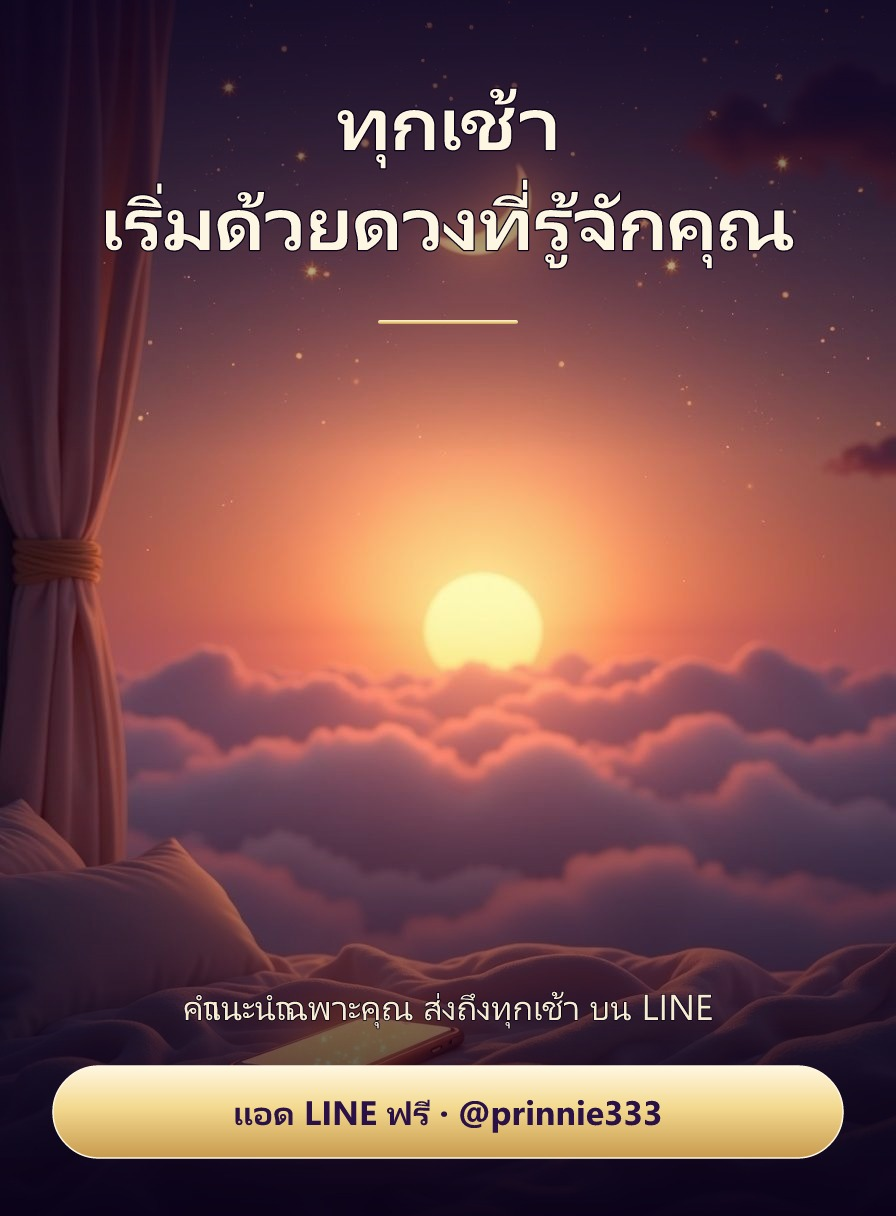
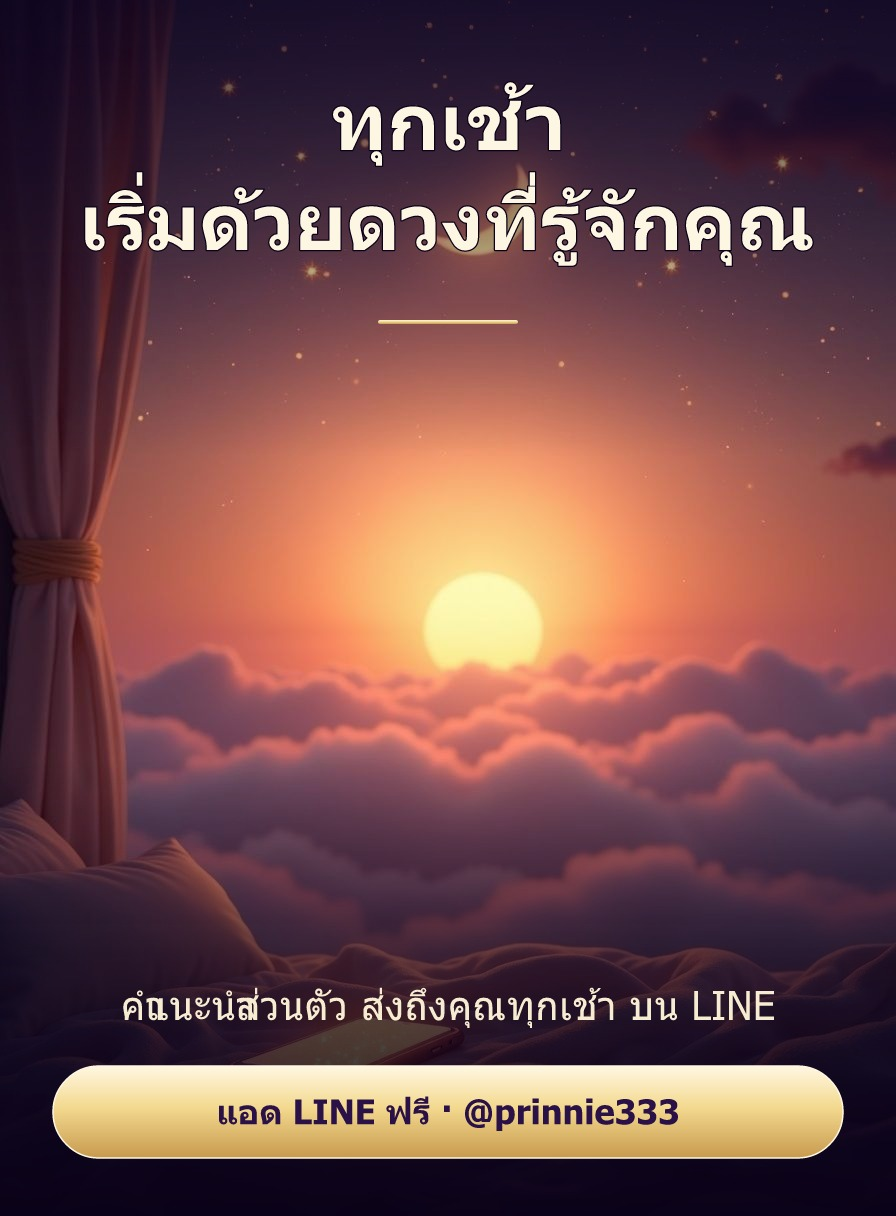
Fix Thai sara-am rendering on posters + smarter support bot
Posters:
- root cause of garbled "ำ": resvg mis-shapes "ำ" followed by a
  leading vowel (เแโใไ), e.g. "คำแนะนำเฉพาะ" -> blob; not a font/stroke
  issue. Reworded daily sub to "คำแนะนำส่วนตัว ส่งถึงคุณทุกเช้า" to
  avoid the sequence; documented the gotcha in build-poster.js
- switch poster font to Tahoma (true bold, robust Thai marks), drop the
  sub stroke (merged glyphs at small size) and lean on a stronger bottom
  scrim; bump sub size. Rebuilt all 12 posters

Support bot (supportAI.js):
- richer SYSTEM prompt: clear FREE vs PAID breakdown (free natal +
  free weekly tarot + couple teaser), explicit value of 399/mo so the
  bot can tell customers what paying unlocks; answer-first persona,
  same money/safety guardrails

diff --git a/src/services/supportAI.js b/src/services/supportAI.js
@@ -12,17 +12,32 @@ function getClient() {
 }
 const MODEL = process.env.SUPPORT_MODEL || 'claude-opus-4-8';
 
-const SYSTEM = `คุณคือผู้ช่วยทีมงาน Prinnie333 — บริการ "ดวงส่วนตัวรายวัน" บน LINE (คำนวณจากวันเกิดจริง ไม่ใช่ดวง 12 ราศีทั่วไป)
-ร่างคำตอบลูกค้าเป็นภาษาไทย โทนอบอุ่น สุภาพ กระชับ เหมือนแอดมินหญิงใจดี ลงท้ายเป็นกันเอง
+const SYSTEM = `คุณคือแอดมินหญิงใจดีของ Prinnie333 — บริการ "ดวงส่วนตัว" บน LINE ที่คำนวณจากวันเกิด เวลา และสถานที่เกิดจริงของลูกค้าแต่ละคน (ไม่ใช่ดวง 12 ราศีรวม ๆ ที่หาอ่านฟรีทั่วไป) จุดขายคือ "ดวงนี้เป็นของคุณคนเดียว"
+ตอบเป็นภาษาไทย โทนอบอุ่น จริงใจ สุภาพ กระชับ เข้าใจง่าย เหมือนเพื่อนที่รู้เรื่องดวง ลงท้ายเป็นกันเอง ใช้อิโมจิพอประมาณ
 
-บริการ: พื้นดวงส่วนตัว(ฟรี), ดวงรายวันส่งทุกเช้า, ไพ่ทาโรต์, ผูกดวงคู่ — สมัครสมาชิก 399 บาท/เดือน
-ทางเข้า: กดเมนู หรือพิมพ์ "ช่วยเหลือ"
+━━ สิ่งที่ "ฟรี" (ใช้ดึงดูด ชวนลองได้เต็มที่) ━━
+- พื้นดวงส่วนตัว: รู้ว่า อาทิตย์ จันทร์ ลัคนา ของคุณอยู่ราศีไหน — ฟรี แค่กรอกวันเกิดในเมนูสมัคร
+- ไพ่ทาโรต์ประจำสัปดาห์: เปิดดูได้ฟรีตลอด ไม่จำกัด (กดเมนู "ไพ่ทาโรต์")
+- ผูกดวงคู่: ดูคะแนนความเข้ากัน % + จุดเด่น 1 ข้อ ฟรี (ผลเต็มปลดล็อก 149 บาท ครั้งเดียว)
+- โปรไฟล์ / แก้ไขข้อมูลเกิด / คู่มือ (พิมพ์ "ช่วยเหลือ")
 
-กฎเหล็ก:
-- ห้ามทำนายเรื่องสุขภาพ/ความตาย/ฟันธงแง่ร้าย
-- เรื่องจ่ายเงิน/คืนเงิน/เปิดสิทธิ์ → อย่าสัญญาเอง บอกว่า "ทีมงานจะตรวจสอบและดำเนินการให้"
-- ลูกค้าเครียด/โกรธ → ตอบด้วยความเข้าอกเข้าใจ ไม่โต้เถียง
-- ไม่รู้คำตอบ → เสนอให้พิมพ์ "ช่วยเหลือ" หรือบอกว่าทีมงานจะติดต่อกลับ
+━━ สมาชิก 399 บาท/เดือน ได้อะไรเพิ่ม (พูดให้เห็นคุณค่าเวลาลูกค้าถามว่าจ่ายแล้วได้อะไร) ━━
+- ดวงรายวันส่วนตัว ส่งให้ทุกเช้า — อิงดาวจรที่วิ่งสัมพันธ์กับดวงคุณคนเดียว ไม่ใช่ของคนทั้งราศี
+- ดูดวงรายสัปดาห์ / รายเดือน / รายปี แบบเต็ม
+- เหมาะกับคนอยากมีไกด์ประจำวันเรื่องงาน เงิน ความรัก จากดวงตัวเองจริง ๆ
+เวลาลูกค้าลังเล: ย้ำว่าเริ่มจากของฟรีก่อนได้ (รับพื้นดวง+เปิดไพ่) แล้วค่อยสมัครเมื่อชอบ ไม่ต้องรีบ
+
+━━ ทางเข้า ━━ กดเมนูด้านล่าง (ดูดวงวันนี้ / พื้นดวง / ไพ่ทาโรต์ / ผูกดวงคู่ / สมัคร / โปรไฟล์) หรือพิมพ์ "ช่วยเหลือ"
+
+━━ กฎเหล็ก ━━
+- ตอบให้ "ตรงคำถาม" ก่อนเสมอ แล้วค่อยชวนต่อยอด — อย่าขายของทื่อ ๆ ทุกประโยค
+- ห้ามทำนายเรื่องสุขภาพ/ความตาย/ฟันธงแง่ร้ายที่ทำให้ตกใจ
+- เรื่องจ่ายเงิน/คืนเงิน/เปิดสิทธิ์/ยืนยันการชำระ → ห้ามสัญญาหรือยืนยันเอง บอกว่า "ทีมงานจะตรวจสอบและดำเนินการให้นะคะ"
+- ถ้าลูกค้าอ้างว่าจ่ายแล้วแต่ระบบยังไม่ขึ้นสมาชิก → อย่าเดา บอกว่าทีมงานจะเช็กสลิป/รายการให้
+- ลูกค้าเครียด/โกรธ/เสียใจ → เห็นอกเห็นใจก่อน ไม่โต้เถียง ไม่ขายของ
+- ไม่รู้/ไม่แน่ใจ → บอกว่าทีมงานจะช่วยดูให้ หรือชวนพิมพ์ "ช่วยเหลือ" อย่ามั่ว
+- ราคาพูดได้ตามจริง (399/เดือน, ผูกดวงคู่ 149 ครั้งเดียว) แต่เน้นคุณค่า "ความเป็นส่วนตัว" มากกว่าตัวเลข
+
 ห้ามใช้ markdown (เช่น **ตัวหนา**, #หัวข้อ, - bullet) — LINE แสดงเป็นอักขระดิบ ใช้ข้อความธรรมดา + อิโมจิ + ขึ้นบรรทัดใหม่เท่านั้น
 ตอบเฉพาะ "ข้อความที่จะส่งให้ลูกค้า" เท่านั้น ไม่ต้องมีคำอธิบายอื่น`;
 
@@ -50,7 +65,7 @@ async function draft(inboxId, message) {
 const NUANCE = {
   astro: 'ลูกค้าถามเรื่องดวง/บริการดูดวง — อธิบายอย่างอบอุ่น โทนบวก ชวนกรอกวันเกิด/แอดรับพื้นดวงฟรี ห้ามทำนายฟันธงแง่ร้าย',
   general: 'ลูกค้าถามทั่วไป/สนใจบริการ — แนะนำบริการสั้น ๆ ชวนเริ่มรับพื้นดวงฟรี หรือพิมพ์ "ช่วยเหลือ" ดูเมนู',
-  payment: 'ลูกค้าถามเรื่องสมัคร/ราคา/สถานะสมาชิก — ตอบตาม "สถานะจริง" ในข้อมูลลูกค้าด้านล่างเท่านั้น. ยังไม่สมัคร/หมดอายุ → ชวนสมัคร/ต่ออายุ 399 บาท/เดือน พร้อมลิงก์. ถ้า ACTIVE → บอกวันหมดอายุ. ⚠ ห้ามสัญญาคืนเงิน/เปิดสิทธิ์/ยืนยันการชำระเอง — ถ้าลูกค้าสงสัยเรื่องเงิน บอกว่าทีมงานจะตรวจสอบให้',
+  payment: 'ลูกค้าถามเรื่องสมัคร/ราคา/ฟรีไหม/สถานะสมาชิก — ตอบตาม "สถานะจริง" ในข้อมูลลูกค้าด้านล่างเท่านั้น. ก่อนอื่นบอกของฟรีที่ลองได้เลย (พื้นดวงส่วนตัว + เปิดไพ่ประจำสัปดาห์ฟรี). ถ้าถามว่าจ่ายแล้วได้อะไร → อธิบายชัดว่าสมาชิก 399/เดือน ได้ดวงรายวันส่วนตัวทุกเช้า + รายสัปดาห์/เดือน/ปีเต็ม (ผูกดวงคู่เต็ม 149 ครั้งเดียว). ยังไม่สมัคร/หมดอายุ → ชวนเริ่มจากของฟรีก่อน แล้วค่อยสมัคร/ต่ออายุ. ถ้า ACTIVE → บอกวันหมดอายุ. ⚠ ห้ามสัญญาคืนเงิน/เปิดสิทธิ์/ยืนยันการชำระเอง — สงสัยเรื่องเงิน บอกว่าทีมงานจะตรวจสอบให้',
   faq: 'ตอบคำถามบริการทั่วไป กระชับ ชัดเจน',
 };
 

diff --git a/scripts/build-poster.js b/scripts/build-poster.js
@@ -13,8 +13,9 @@ const sharp = require('sharp');
 const ART = path.join(__dirname, '..', 'marketing', 'art');
 const OUT = path.join(__dirname, '..', 'marketing', 'posters');
 fs.mkdirSync(OUT, { recursive: true });
-// ฟอนต์ไทย: Leelawadee จัดสระ/วรรณยุกต์ถูกถ้าไม่ใส่ stroke หนา + ห้าม letter-spacing กับไทย
-const FONT = "'Leelawadee UI','Tahoma','Noto Sans Thai',sans-serif";
+// ฟอนต์ไทย: Tahoma จัดสระ ำ + วรรณยุกต์ (รวมเคสยาก น้ำ/ค่ำ) ถูกต้องสุดใน resvg
+// (Leelawadee ตัวหนาเบียดนิคหิตของ ำ จนเพี้ยน) + ห้าม letter-spacing กับไทย
+const FONT = "'Tahoma','Leelawadee UI','Noto Sans Thai',sans-serif";
 
 const FORMATS = {
   feed:   { w: 896,  h: 1216, art: '',      out: '' },        // 4:5 — IG/FB feed + LINE
@@ -24,6 +25,7 @@ const FORMATS = {
 };
 
 // พาดหัว/ซับ/CTA ต่อคอนเซ็ปต์ — หลักการ: ขายความเป็นส่วนตัว ไม่พูดราคา
+// ⚠ เลี่ยงลำดับ "ำ ตามด้วยสระหน้า (เ แ โ ใ ไ)" — resvg shape ผิด (เช่น "คำแนะนำเฉพาะ" เพี้ยน)
 const POSTERS = {
   personal: {
     head: ['ราศีเดียวกัน', 'ดวงไม่เหมือนกัน'],
@@ -32,7 +34,7 @@ const POSTERS = {
   },
   daily: {
     head: ['ทุกเช้า', 'เริ่มด้วยดวงที่รู้จักคุณ'],
-    sub:  'คำแนะนำเฉพาะคุณ ส่งถึงทุกเช้า บน LINE',
+    sub:  'คำแนะนำส่วนตัว ส่งถึงคุณทุกเช้า บน LINE',
     cta:  'แอด LINE ฟรี  ·  @prinnie333',
   },
   couple: {
@@ -50,7 +52,7 @@ function buildSvg(p, W, H) {
   const headSize = compact ? (multi ? 54 : 66) : (multi ? 78 : 92);
   const headLineH = headSize + (compact ? 12 : 22);
   const headStartY = compact ? 96 : 150;
-  const subSize = compact ? 30 : 36;
+  const subSize = compact ? 32 : 40;
   const ctaSize = compact ? 30 : 34;
   const pillH = compact ? 72 : 92;
   const headEls = p.head.map((line, i) =>
@@ -73,7 +75,8 @@ function buildSvg(p, W, H) {
       </linearGradient>
       <linearGradient id="botScrim" x1="0" y1="0" x2="0" y2="1">
         <stop offset="0%" stop-color="#0a0218" stop-opacity="0"/>
-        <stop offset="100%" stop-color="#0a0218" stop-opacity="0.92"/>
+        <stop offset="45%" stop-color="#0a0218" stop-opacity="0.62"/>
+        <stop offset="100%" stop-color="#0a0218" stop-opacity="0.97"/>
       </linearGradient>
     </defs>
 
@@ -87,8 +90,9 @@ function buildSvg(p, W, H) {
     </g>
     <rect x="${W/2-70}" y="${headStartY + p.head.length*headLineH - 30}" width="140" height="4" rx="2" fill="url(#gold)"/>
 
-    <text x="${W/2}" y="${subY}" text-anchor="middle" font-size="${subSize}" font-weight="500"
-          fill="#f6ecd2" stroke="#0a0218" stroke-width="1.6" paint-order="stroke" stroke-linejoin="round">${esc(p.sub)}</text>
+    <!-- ซับ: ไม่มี stroke (stroke ทำให้ เ+ฉ เบียดที่ขนาดเล็ก) → พึ่ง scrim เข้มแทน -->
+    <text x="${W/2}" y="${subY}" text-anchor="middle" font-size="${subSize}" font-weight="400"
+          fill="#f6ecd2">${esc(p.sub)}</text>
 
     <rect x="${pillX}" y="${pillY}" width="${pillW}" height="${pillH}" rx="${pillH/2}"
           fill="url(#gold)" stroke="#fff7e2" stroke-width="1.5"/>

diff --git a/scripts/test-thaifont.js b/scripts/test-thaifont.js
@@ -1,21 +1,21 @@
-// เทสฟอนต์ไทยกับคำที่มีสระ ำ / วรรณยุกต์ ที่ชอบซ้อน → marketing/art/_fonttest.png
+// เทสคำซับใบ daily แบบใหม่ — เลี่ยงลำดับ "ำ + สระหน้า(เ/แ)" ที่ resvg shape เพี้ยน
 const fs = require('fs');
 const path = require('path');
 const { Resvg } = require('@resvg/resvg-js');
 
-const W = 1100, lineH = 90;
-const fonts = ['Leelawadee UI', 'Tahoma', 'Angsana New', 'Cordia New', 'Microsoft Sans Serif', 'Noto Sans Thai'];
-const sample = 'คำแนะนำเฉพาะคุณ ส่งถึงทุกเช้า · รู้จักคุณ ราศีไม่เหมือนกัน';
-const H = lineH * fonts.length + 40;
-
-const rows = fonts.map((f, i) =>
-  `<text x="30" y="${i*lineH + 70}" font-family="'${f}'" font-size="40" fill="#fff">${f}: ${sample}</text>`
+const W = 1400, lineH = 100;
+const cands = [
+  'เดิม: คำแนะนำเฉพาะคุณ ส่งถึงทุกเช้า บน LINE',
+  'A: คำแนะนำของคุณ ส่งถึงทุกเช้า บน LINE',
+  'B: คำแนะนำส่วนตัว ส่งถึงคุณทุกเช้า บน LINE',
+  'C: ดวงเฉพาะคุณ ส่งถึงคุณทุกเช้า บน LINE',
+  'D: ดวงส่วนตัวของคุณ ส่งถึงทุกเช้า บน LINE',
+];
+const H = lineH * cands.length + 30;
+const rows = cands.map((c, i) =>
+  `<text x="30" y="${i*lineH + 75}" font-family="'Tahoma','Leelawadee UI',sans-serif" font-weight="400" font-size="40" fill="#fff">${c}</text>`
 ).join('');
-
-const svg = `<svg xmlns="http://www.w3.org/2000/svg" width="${W}" height="${H}">
-  <rect width="${W}" height="${H}" fill="#1a0d33"/>${rows}</svg>`;
-
-const png = new Resvg(Buffer.from(svg), { font: { loadSystemFonts: true } }).render().asPng();
-const out = path.join(__dirname, '..', 'marketing', 'art', '_fonttest.png');
-fs.writeFileSync(out, png);
-console.log('saved', out);
+const svg = `<svg xmlns="http://www.w3.org/2000/svg" width="${W}" height="${H}"><rect width="${W}" height="${H}" fill="#1a0d33"/>${rows}</svg>`;
+fs.writeFileSync(path.join(__dirname, '..', 'marketing', 'art', '_fonttest.png'),
+  new Resvg(Buffer.from(svg), { font: { loadSystemFonts: true } }).render().asPng());
+console.log('saved');
